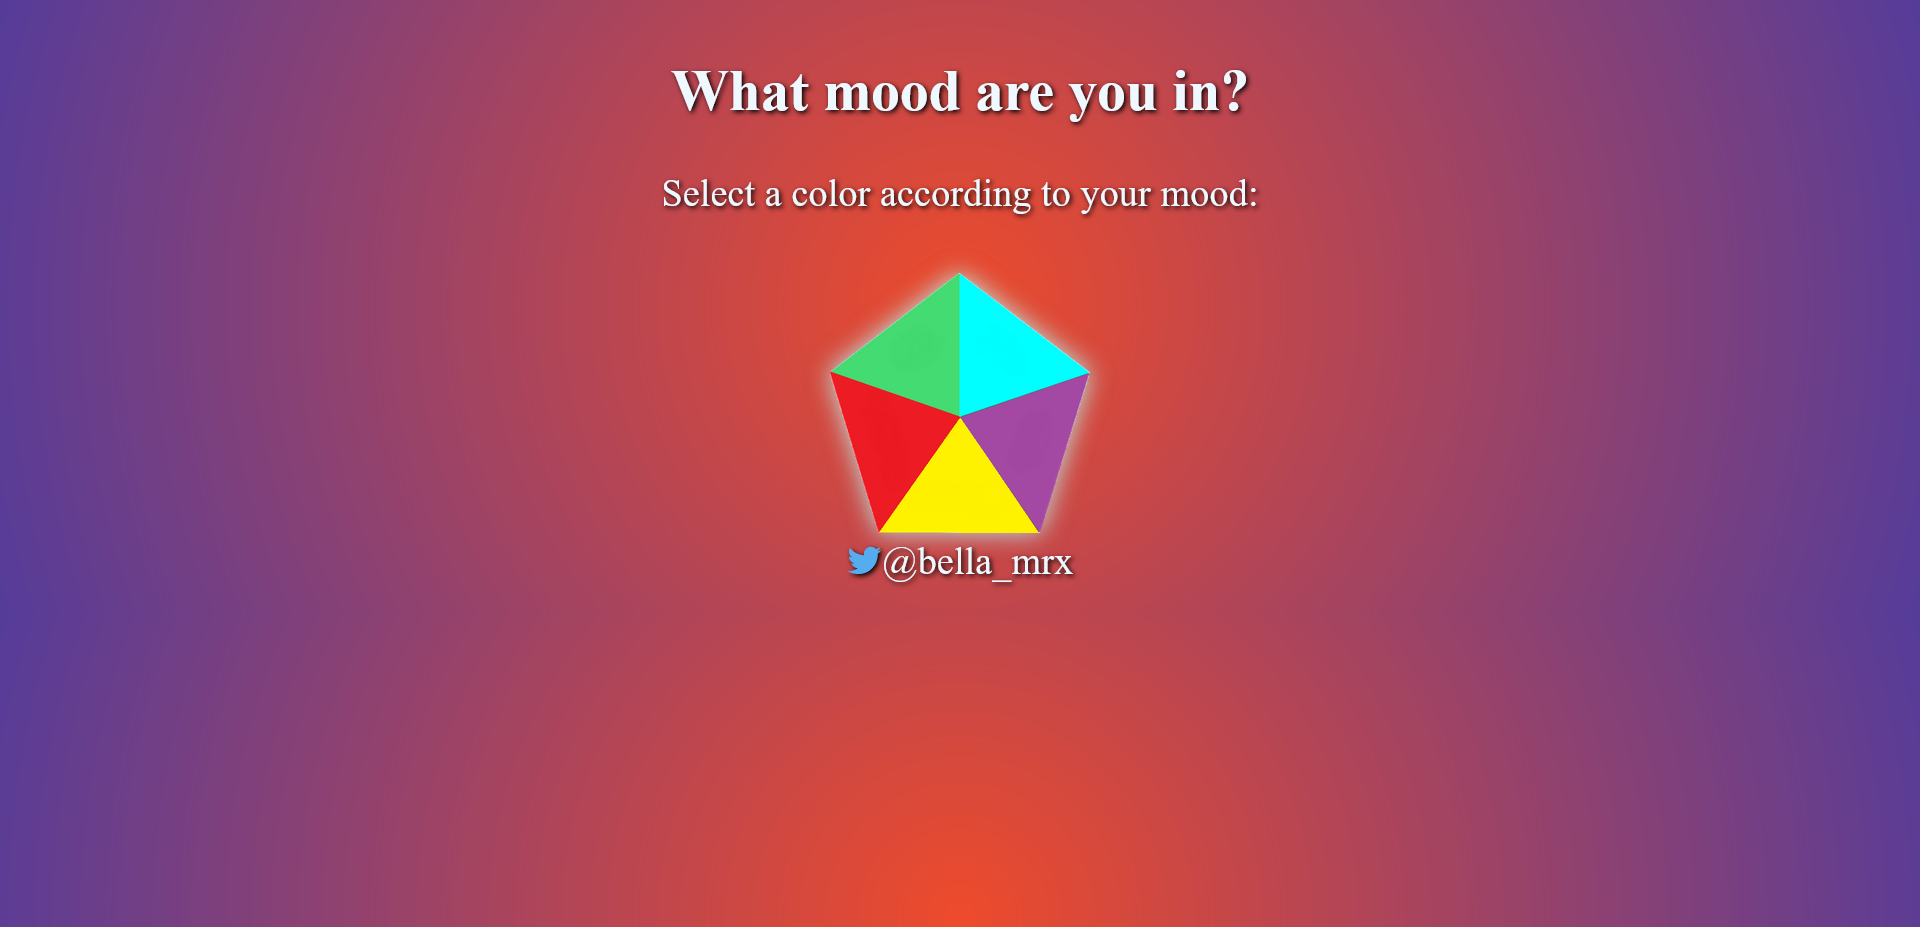
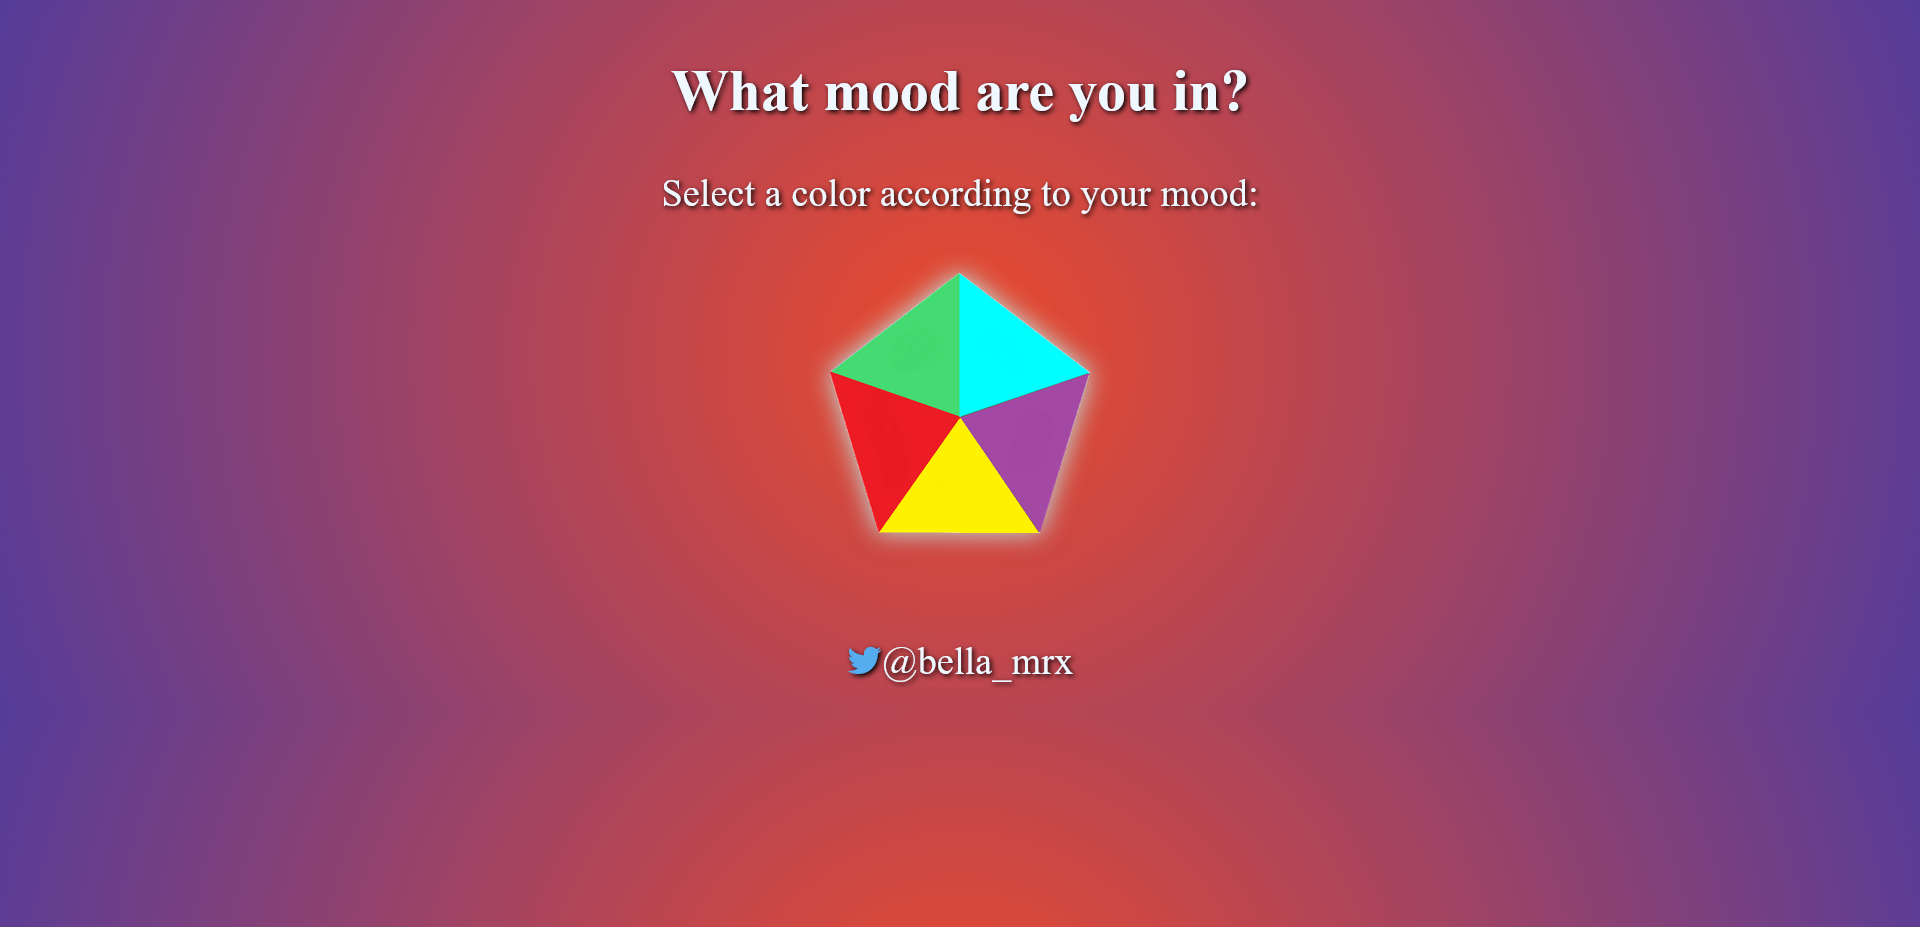
UD

Changed region(s): [[0.4375, 0.6947, 0.5625, 0.7551], [0.4375, 0.5739, 0.5625, 0.6343]]

diff --git a/style.css b/style.css
@@ -39,7 +39,7 @@ img {
 
 .contact {
     text-align: center; 
-    margin-top: 300px;
+    margin-top: 400px;
 }
 
 .fa {
